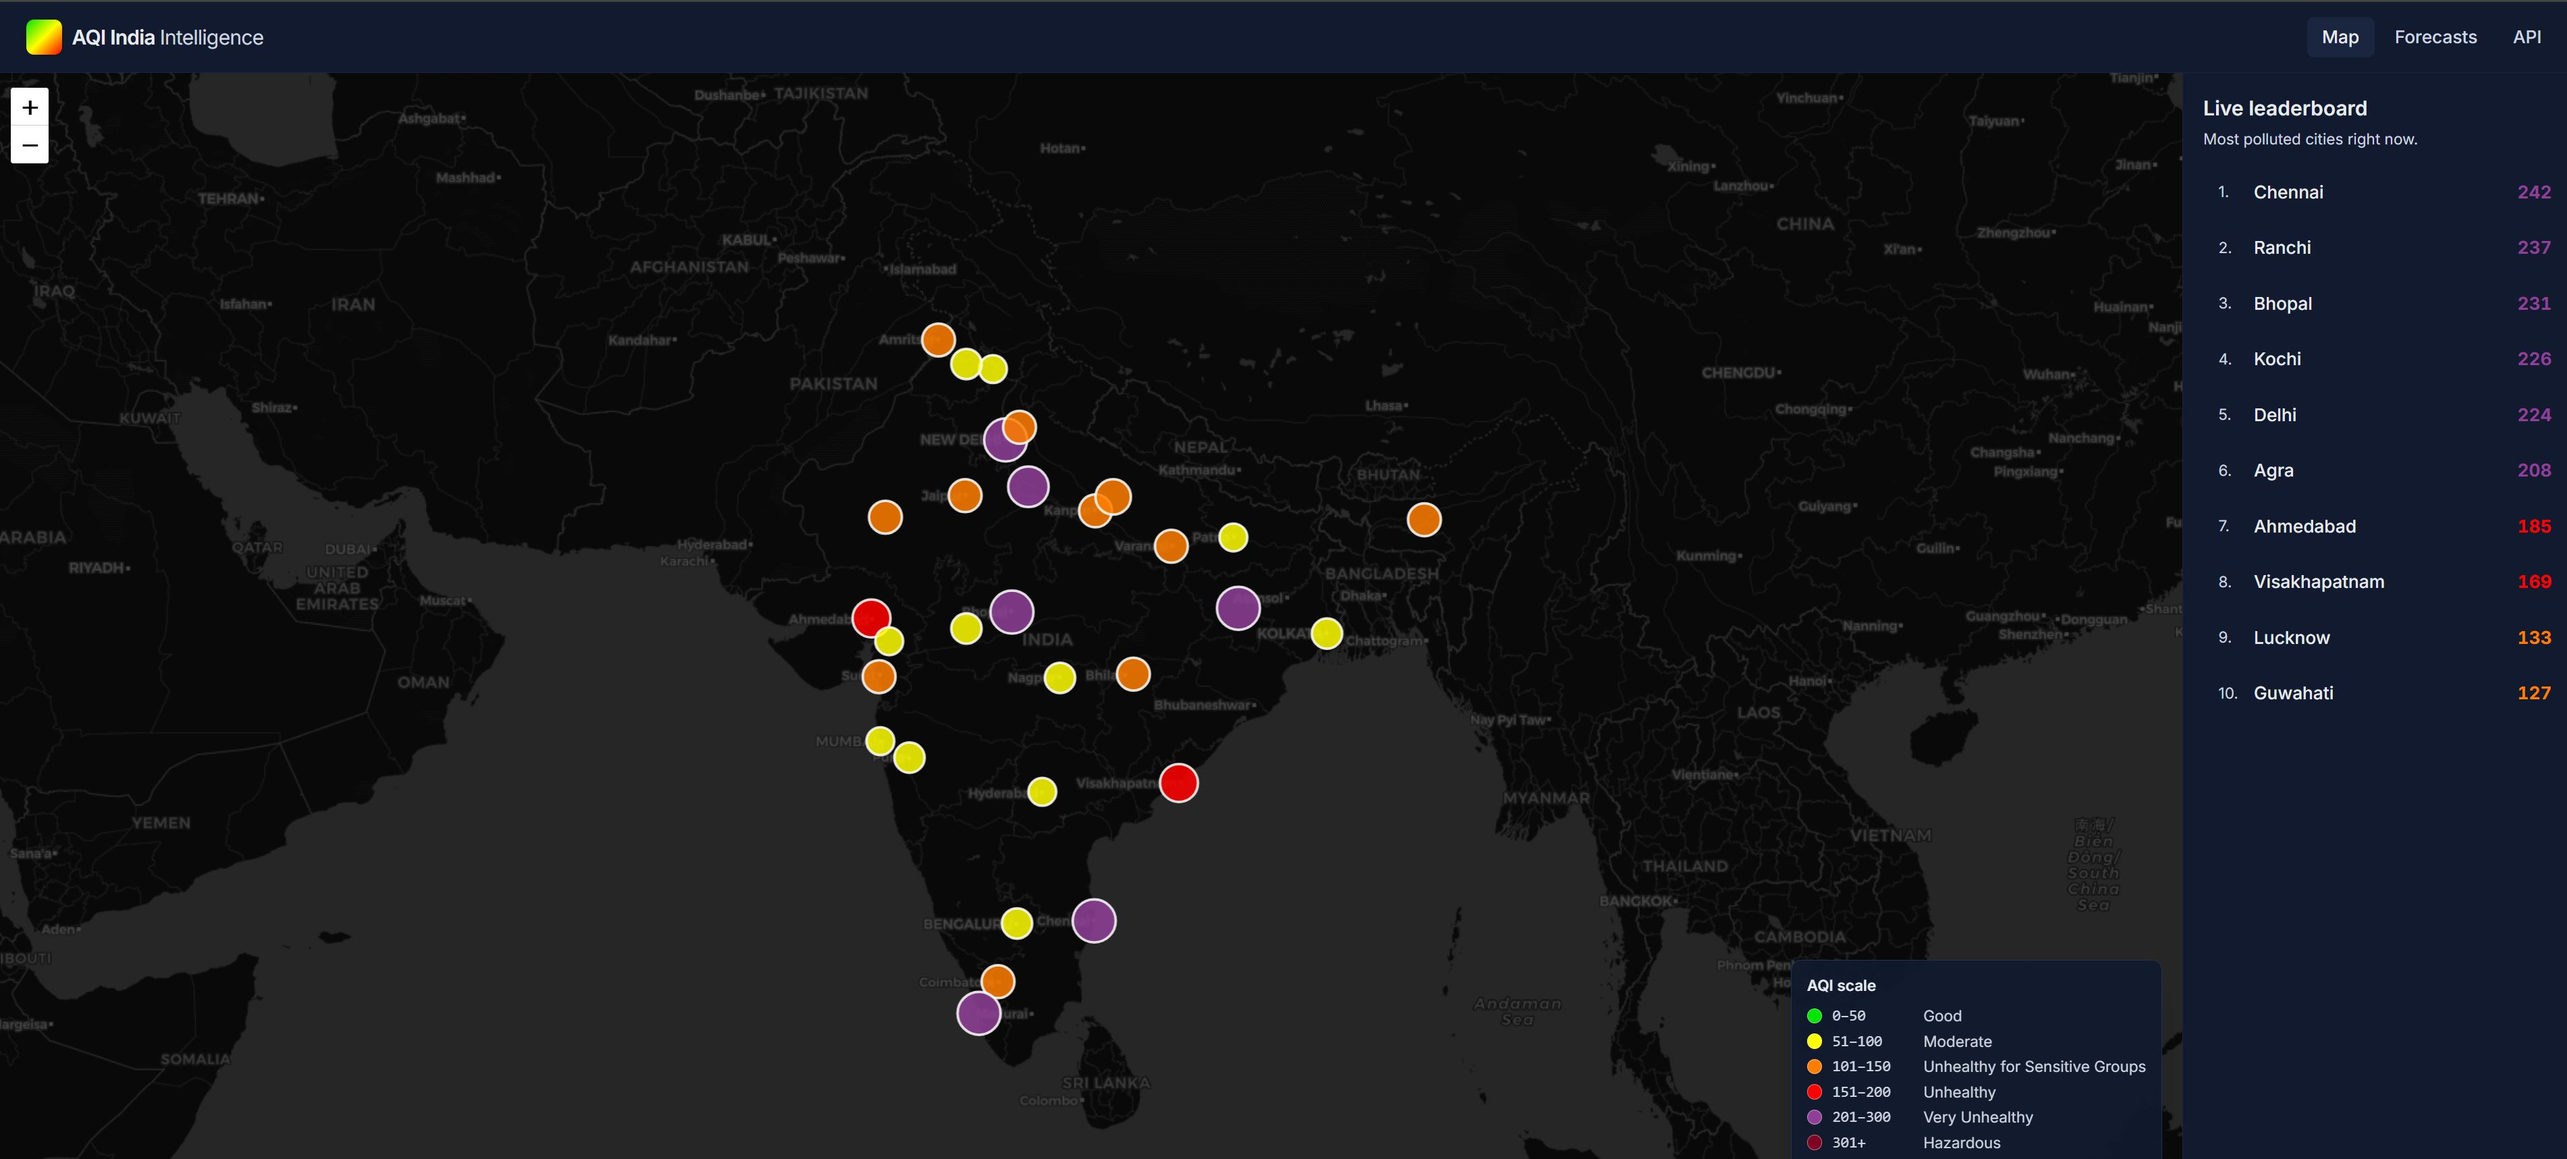
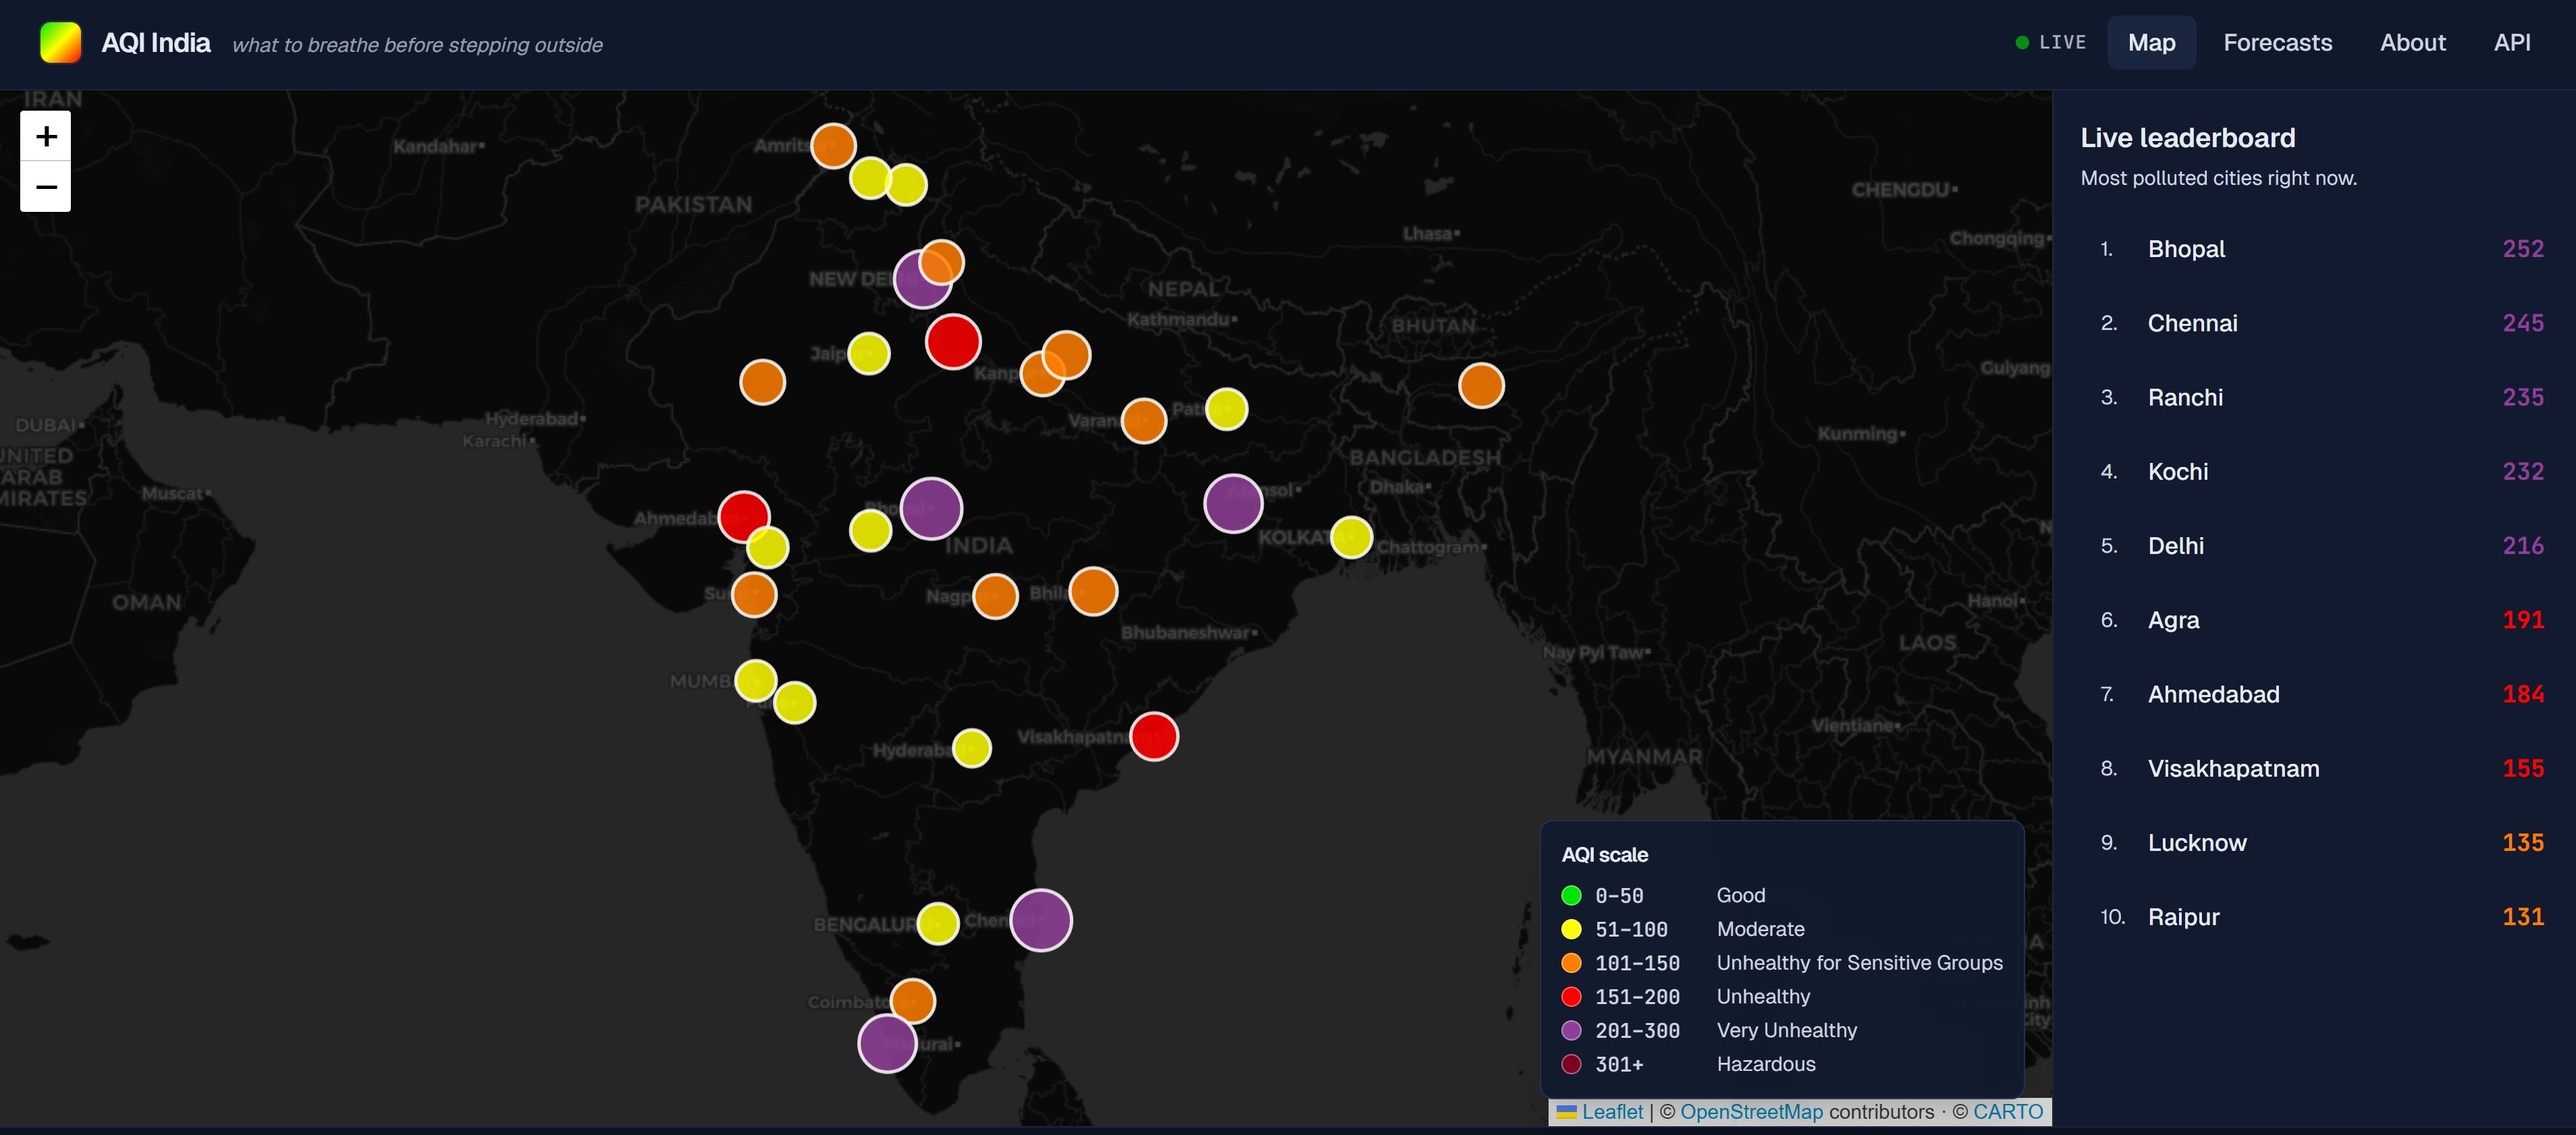
docs: refresh screenshots + add marker-popup interaction shot

diff --git a/README.md b/README.md
@@ -34,6 +34,15 @@ polluted" leaderboard in the right-hand sidebar.
 
 ![Home map](docs/screenshots/01-home-map.jpg)
 
+### Marker interaction
+
+Clicking a city marker flies the map to centre on it and opens a popup
+with the current AQI, category description, last-updated time, and a
+direct link to that city's detail page. Deliberately doesn't auto-navigate
+so you can keep exploring without losing your place.
+
+![Marker popup](docs/screenshots/02-marker-popup.jpg)
+
 ### City detail — Delhi
 
 Drill into any city for its current AQI snapshot, 24-hour trend (with the
